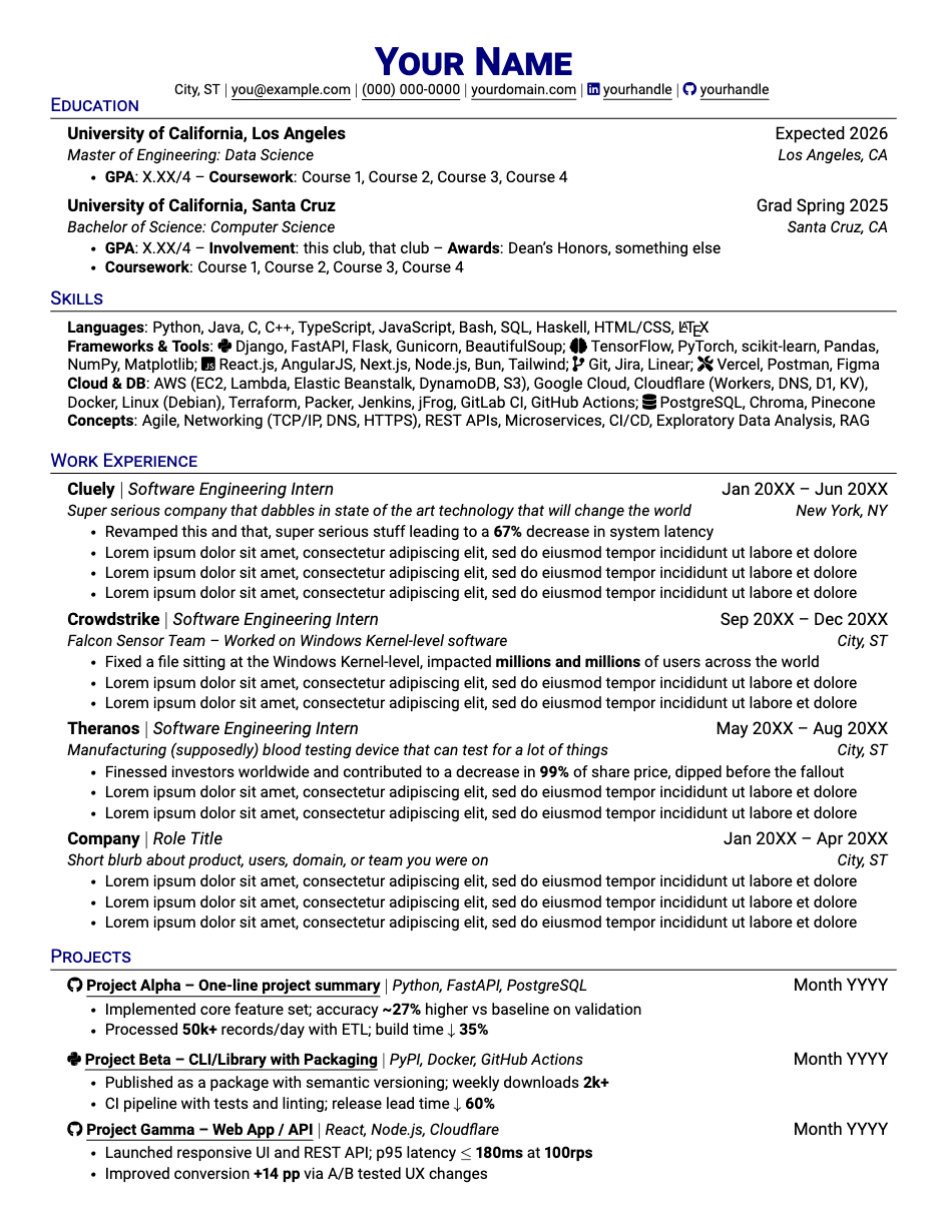
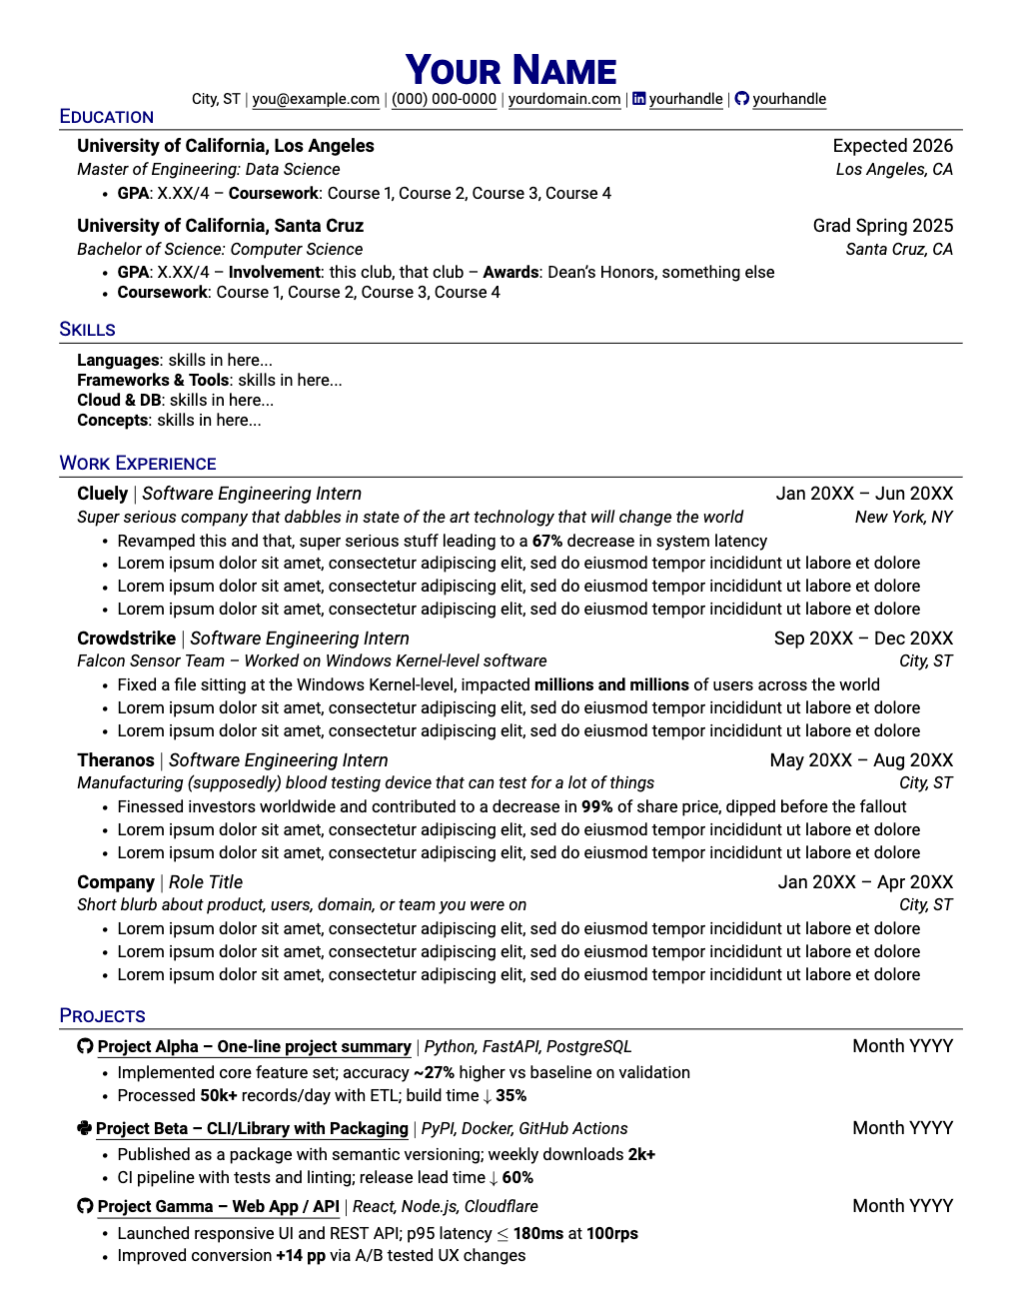
Update template

Changed region(s): [[0.0614, 0.031, 0.9523, 0.9624], [0.8294, 0.9003, 0.9523, 0.9314], [0.8294, 0.8382, 0.9523, 0.8693]]

diff --git a/template.tex b/template.tex
@@ -130,14 +130,14 @@
 
 \vspace{-15pt}
 \begin{center}
-    \textbf{\Huge \scshape \color[HTML]{000080}{Your Name}} \\ \vspace{1pt}
-    \footnotesize City, ST $|$
-    \href{mailto:you@example.com}{\color[HTML]{000000}\underline{you@example.com}} $|$
-    \href{tel:+10000000000}{\color[HTML]{000000}\underline{(000) 000-0000}} $|$
-    \href{https://yourdomain.com}{\color[HTML]{000000}\underline{yourdomain.com}} $|$
-    \href{https://www.linkedin.com/in/yourhandle}{\color[HTML]{000080}{\faLinkedin}~\color[HTML]{000000}\underline{yourhandle}} $|$
-    \href{https://github.com/yourhandle}{\color[HTML]{000080}{\faGithub}~\color[HTML]{000000}\underline{yourhandle}}
-    \vspace{-15pt}
+  \textbf{\Huge \scshape \color[HTML]{000080}{Your Name}} \\ \vspace{1pt}
+  \footnotesize City, ST $|$
+  \href{mailto:you@example.com}{\color[HTML]{000000}\underline{you@example.com}} $|$
+  \href{tel:+10000000000}{\color[HTML]{000000}\underline{(000) 000-0000}} $|$
+  \href{https://yourdomain.com}{\color[HTML]{000000}\underline{yourdomain.com}} $|$
+  \href{https://www.linkedin.com/in/yourhandle}{\color[HTML]{000080}{\faLinkedin}~\color[HTML]{000000}\underline{yourhandle}} $|$
+  \href{https://github.com/yourhandle}{\color[HTML]{000080}{\faGithub}~\color[HTML]{000000}\underline{yourhandle}}
+  \vspace{-15pt}
 \end{center}
 
 %-----------EDUCATION-----------
@@ -148,8 +148,8 @@
 {University of California, Los Angeles}{Expected 2026}
 {Master of Engineering: Data Science}{Los Angeles, CA}
 \begin{itemize}[itemsep=-1pt, parsep=1pt]
-    % remove and/or add details as needed (for example, exclude your GPA if it's not looking too hot)
-    \item\small \textbf{GPA}{: X.XX/4} -- \textbf{Coursework}{: Course 1, Course 2, Course 3, Course 4}
+  % remove and/or add details as needed (for example, exclude your GPA if it's not looking too hot)
+  \item\small \textbf{GPA}{: X.XX/4} -- \textbf{Coursework}{: Course 1, Course 2, Course 3, Course 4}
 \end{itemize}
 
 \vspace{-5pt}
@@ -158,9 +158,9 @@
 {University of California, Santa Cruz}{Grad Spring 2025}
 {Bachelor of Science: Computer Science}{Santa Cruz, CA}
 \begin{itemize}[itemsep=-1pt, parsep=1pt]
-    % remove and/or add details as needed (for example, exclude your GPA if it's not looking too hot)
-    \item\small \textbf{GPA}{: X.XX/4} -- \textbf{Involvement}{: this club, that club} -- \textbf{Awards}{: Dean's Honors, something else}
-    \item\small \textbf{Coursework}{: Course 1, Course 2, Course 3, Course 4}
+  % remove and/or add details as needed (for example, exclude your GPA if it's not looking too hot)
+  \item\small \textbf{GPA}{: X.XX/4} -- \textbf{Involvement}{: this club, that club} -- \textbf{Awards}{: Dean's Honors, something else}
+  \item\small \textbf{Coursework}{: Course 1, Course 2, Course 3, Course 4}
 \end{itemize}
 
 \resumeSubHeadingListEnd
@@ -169,15 +169,16 @@
 %-----------SKILLS-----------
 \section{Skills}
 \begin{itemize}[leftmargin=0.15in, label={}]
-    \small{\item{
-          % left this as be for you to space out and categorize your skills as needed
-          % added icons in frameworks+tools to separate by sub-category, feel free to remove
-          % search up fontawesome icons to see what icons are available
-          \textbf{Languages}{: Python, Java, C, C\texttt{++}, TypeScript, JavaScript, Bash, SQL, Haskell, HTML/CSS, \LaTeX} \\
-          \textbf{Frameworks \& Tools}{: \faPython~Django, FastAPI, Flask, Gunicorn, BeautifulSoup; \faBrain~TensorFlow, PyTorch, scikit-learn, Pandas, NumPy, Matplotlib; \faJsSquare~React.js, AngularJS, Next.js, Node.js, Bun, Tailwind; \faCodeBranch~Git, Jira, Linear; \faTools~Vercel, Postman, Figma} \\
-          \textbf{Cloud \& DB}{: AWS (EC2, Lambda, Elastic Beanstalk, DynamoDB, S3), Google Cloud, Cloudflare (Workers, DNS, D1, KV), Docker, Linux (Debian), Terraform, Packer, Jenkins, jFrog, GitLab CI, GitHub Actions; \faDatabase~PostgreSQL, Chroma, Pinecone} \\
-          \textbf{Concepts}{: Agile, Networking (TCP/IP, DNS, HTTPS), REST APIs, Microservices, CI/CD, Exploratory Data Analysis, RAG}
-          }}
+  \small{\item{
+        % left this as be for you to space out and categorize your skills as needed
+        % added icons in frameworks+tools to separate by sub-category, feel free to remove
+        % search up fontawesome icons to see what icons are available
+        \textbf{Languages}{: skills in here...} \\
+        \textbf{Frameworks \& Tools}{: skills in here...} \\
+        \textbf{Cloud \& DB}{: skills in here...} \\
+        \textbf{Concepts}{: skills in here...}
+        }}
+
 \end{itemize}
 
 %-----------EXPERIENCE-----------
